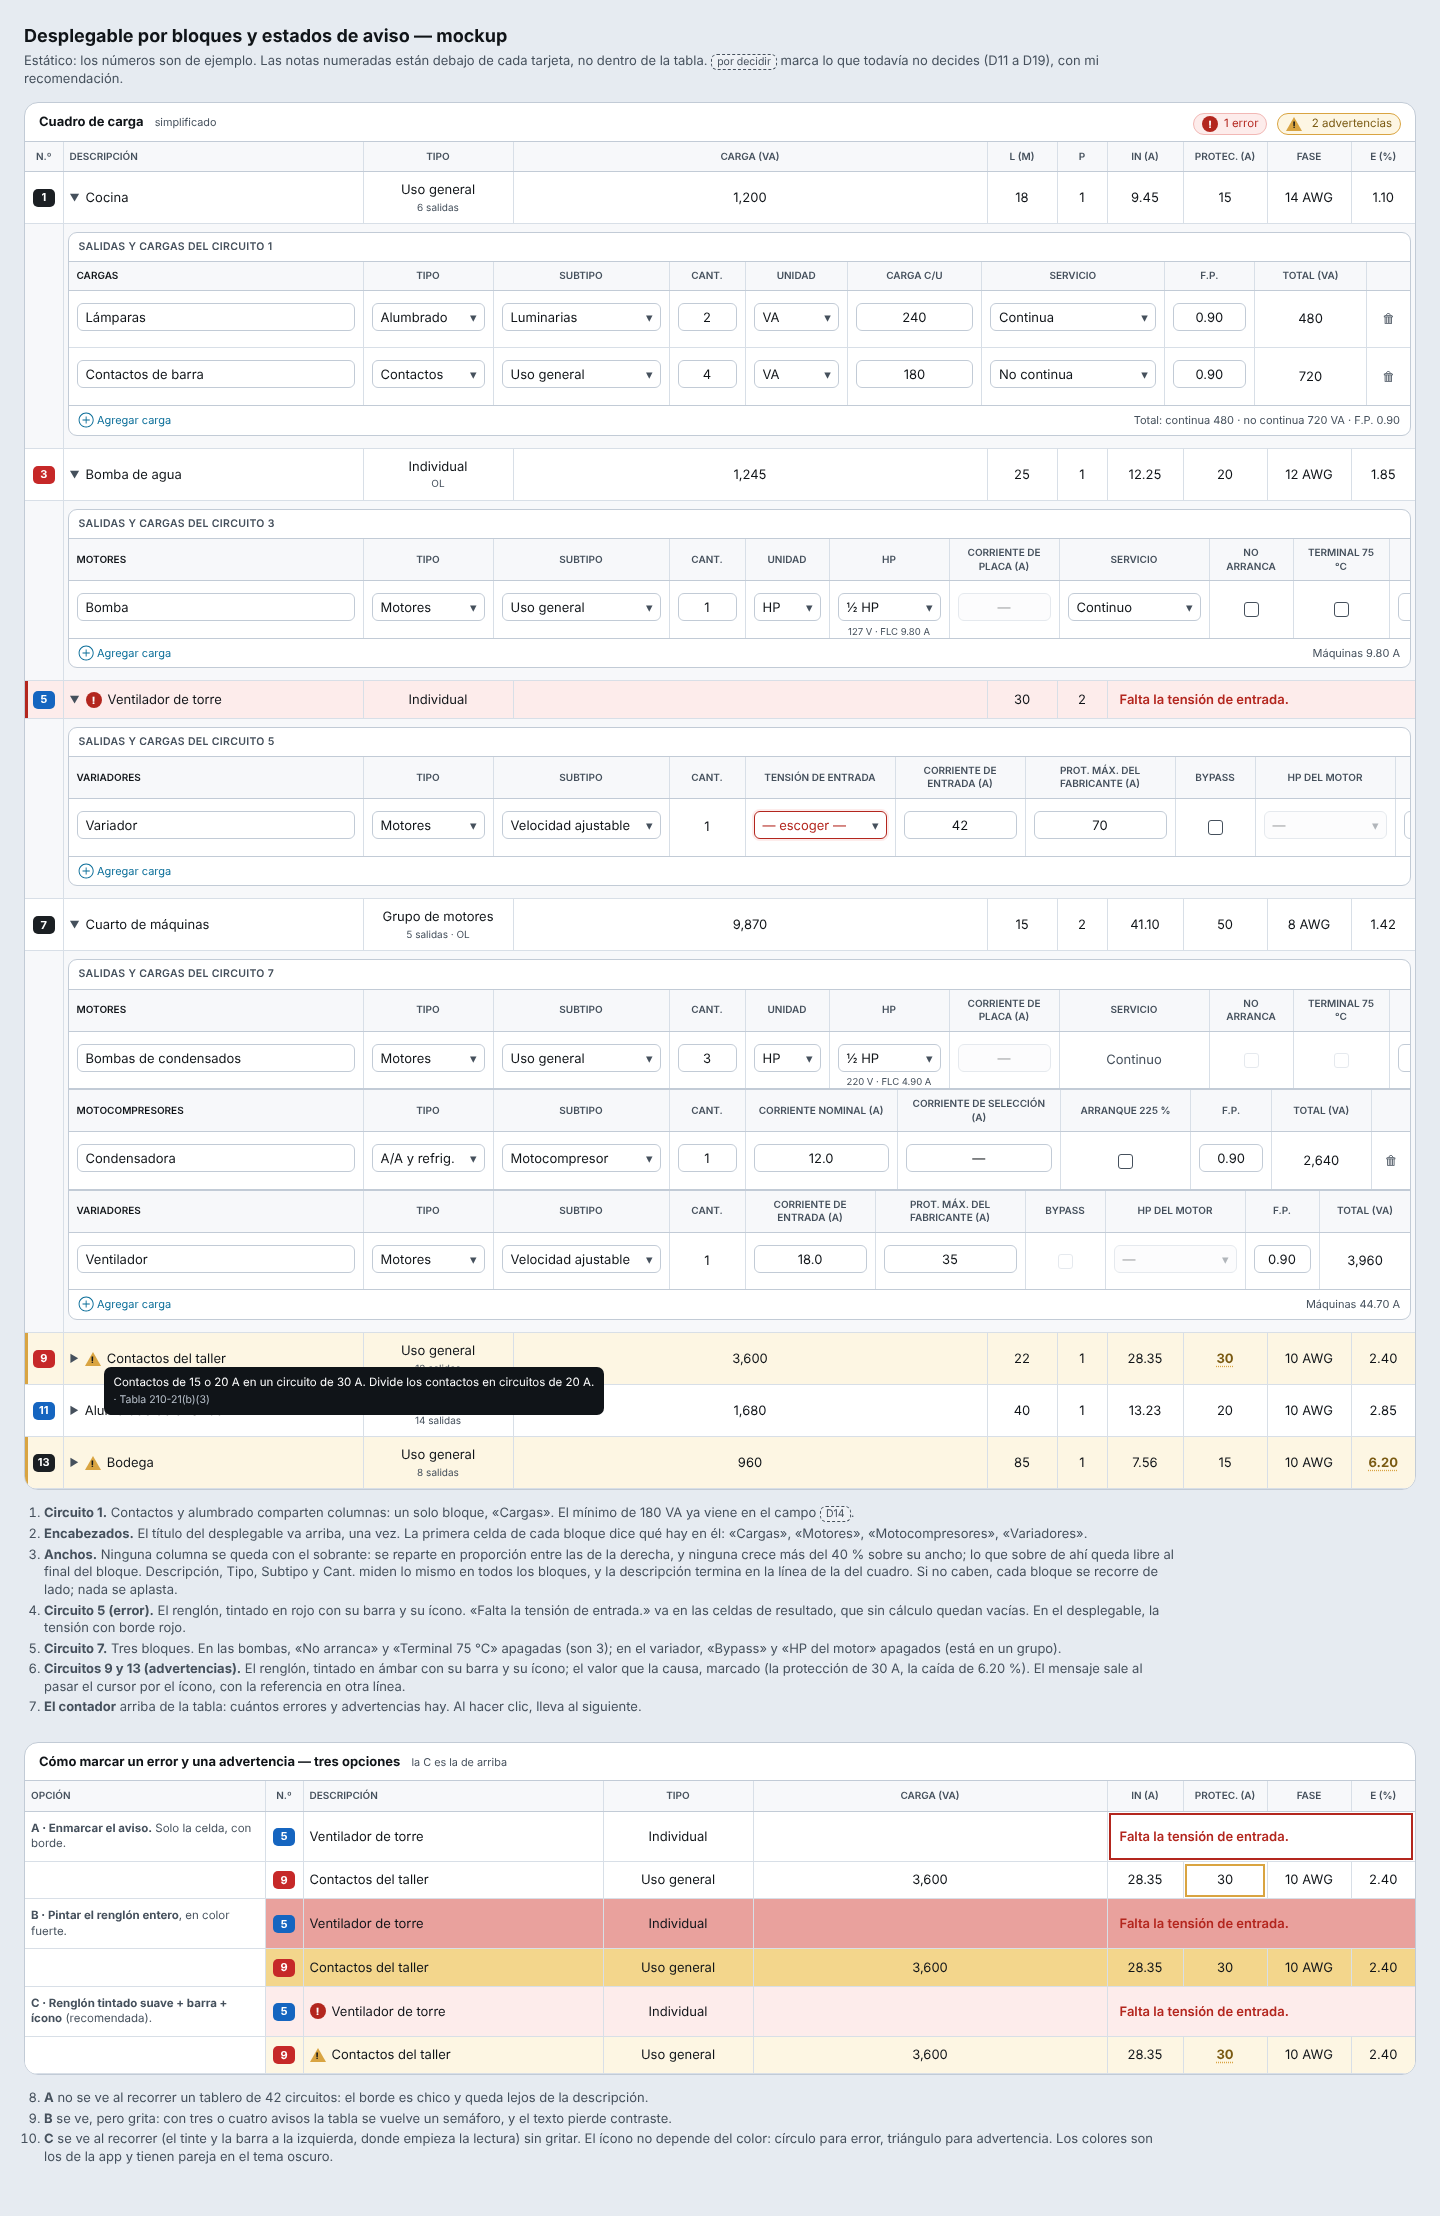
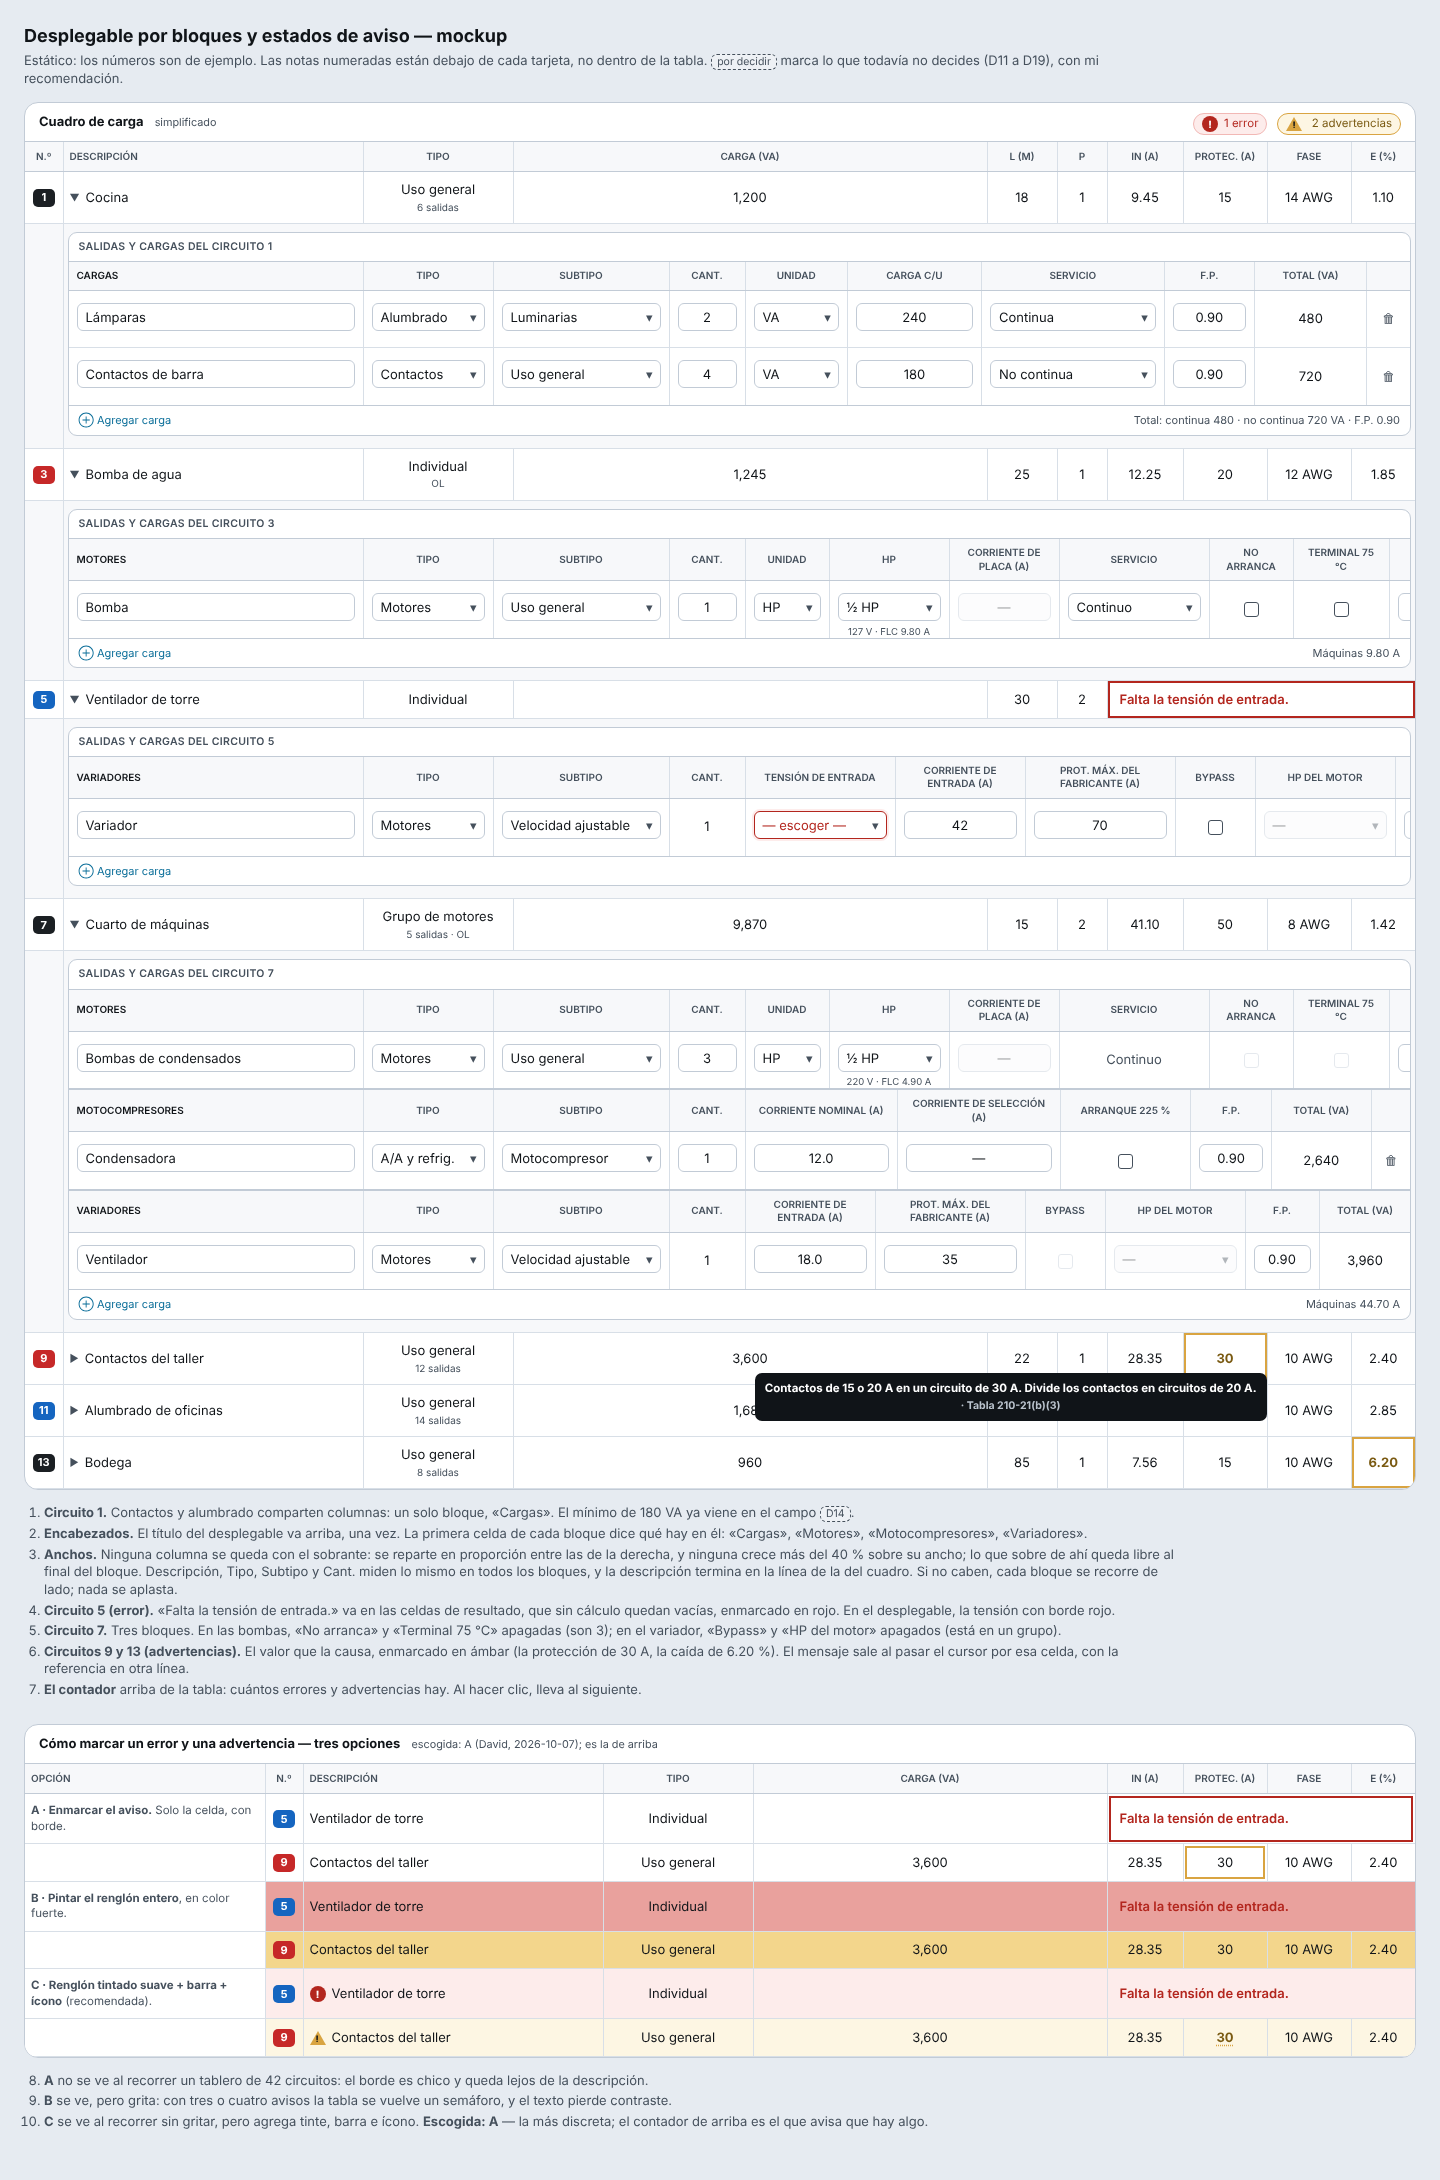
Docs: estados de aviso — David escoge la opción A, con contador y la tarjeta del pie
Solo la celda, con borde: el error en las celdas de resultado; la advertencia en la celda del valor
que la causa, con su mensaje al pasar el cursor. El mockup ya la enseña.

Claude-Session: https://claude.ai/code/session_01MnxpHgfUvDcquuwT9pQmd6

diff --git a/docs/mockups/desglose-por-bloques.html b/docs/mockups/desglose-por-bloques.html
@@ -62,6 +62,10 @@ td.msg-error { color:var(--alerta); font-weight:600; text-align:left !important;
 .chip.error { color:var(--alerta); background:var(--alerta-fondo); border-color:#f2b8b5; }
 .chip.aviso { color:var(--aviso-texto); background:var(--aviso-fondo); border-color:var(--aviso-borde); }
 
+/* LA OPCIÓN A, escogida por David (2026-10-07): solo la celda, con borde. */
+td.marco-error { box-shadow:inset 0 0 0 2px var(--alerta); }
+td.marco-aviso { box-shadow:inset 0 0 0 2px var(--aviso-borde); color:var(--aviso-texto); font-weight:700; }
+
 /* ── El desplegable ────────────────────────────────────────────────────────── */
 tr.fila-desglose > td { background:var(--fondo-suave); padding:8px 4px 12px; text-align:left; }
 .desglose { border:1px solid var(--linea); border-radius:var(--radio-sm); background:var(--papel); overflow:hidden; }
@@ -151,8 +155,8 @@ tr.fila-desglose > td { background:var(--fondo-suave); padding:8px 4px 12px; tex
   </td></tr>
 
   <!-- 5 · Ventilador: ERROR -->
-  <tr class="error"><td><span class="num-c fc">5</span></td><td class="izq"><span class="desc"><span class="flecha">▼</span><span class="ic error">!</span>Ventilador de torre</span></td><td><span class="clase">Individual</span></td><td></td><td>30</td><td>2</td>
-      <td colspan="4" class="msg-error">Falta la tensión de entrada.</td></tr>
+  <tr><td><span class="num-c fc">5</span></td><td class="izq"><span class="desc"><span class="flecha">▼</span>Ventilador de torre</span></td><td><span class="clase">Individual</span></td><td></td><td>30</td><td>2</td>
+      <td colspan="4" class="msg-error marco-error">Falta la tensión de entrada.</td></tr>
   <tr class="fila-desglose"><td></td><td colspan="9">
     <div class="desglose">
       <div class="titulo-desglose">Salidas y cargas del circuito 5</div>
@@ -204,13 +208,13 @@ tr.fila-desglose > td { background:var(--fondo-suave); padding:8px 4px 12px; tex
   </td></tr>
 
   <!-- 9 · ADVERTENCIA con su ayuda abierta -->
-  <tr class="aviso"><td><span class="num-c fb">9</span></td><td class="izq" style="position:relative"><span class="desc"><span class="flecha">▶</span><span class="ic aviso"></span>Contactos del taller</span>
-      <span class="globo" style="left:40px; top:34px">Contactos de 15 o 20 A en un circuito de 30 A. Divide los contactos en circuitos de 20 A.<span class="r">· Tabla 210-21(b)(3)</span></span></td>
-      <td><span class="clase">Uso general</span><span class="en-va">12 salidas</span></td><td>3,600</td><td>22</td><td>1</td><td>28.35</td><td><span class="marcado-aviso">30</span></td><td>10 AWG</td><td>2.40</td></tr>
+  <tr><td><span class="num-c fb">9</span></td><td class="izq"><span class="desc"><span class="flecha">▶</span>Contactos del taller</span></td>
+      <td><span class="clase">Uso general</span><span class="en-va">12 salidas</span></td><td>3,600</td><td>22</td><td>1</td><td>28.35</td><td class="marco-aviso" style="position:relative">30
+      <span class="globo" style="right:0; top:40px">Contactos de 15 o 20 A en un circuito de 30 A. Divide los contactos en circuitos de 20 A.<span class="r">· Tabla 210-21(b)(3)</span></span></td><td>10 AWG</td><td>2.40</td></tr>
   <tr><td><span class="num-c fc">11</span></td><td class="izq"><span class="desc"><span class="flecha">▶</span>Alumbrado de oficinas</span></td><td><span class="clase">Uso general</span><span class="en-va">14 salidas</span></td><td>1,680</td><td>40</td><td>1</td><td>13.23</td><td>20</td><td>10 AWG</td><td>2.85</td></tr>
 
   <!-- 13 · ADVERTENCIA cerrada: solo el renglón tintado, la barra y el ícono -->
-  <tr class="aviso"><td><span class="num-c fa">13</span></td><td class="izq"><span class="desc"><span class="flecha">▶</span><span class="ic aviso"></span>Bodega</span></td><td><span class="clase">Uso general</span><span class="en-va">8 salidas</span></td><td>960</td><td>85</td><td>1</td><td>7.56</td><td>15</td><td>10 AWG</td><td><span class="marcado-aviso">6.20</span></td></tr>
+  <tr><td><span class="num-c fa">13</span></td><td class="izq"><span class="desc"><span class="flecha">▶</span>Bodega</span></td><td><span class="clase">Uso general</span><span class="en-va">8 salidas</span></td><td>960</td><td>85</td><td>1</td><td>7.56</td><td>15</td><td>10 AWG</td><td class="marco-aviso">6.20</td></tr>
   </tbody>
 </table>
 </div>
@@ -218,15 +222,15 @@ tr.fila-desglose > td { background:var(--fondo-suave); padding:8px 4px 12px; tex
   <li><b>Circuito 1.</b> Contactos y alumbrado comparten columnas: un solo bloque, «Cargas». El mínimo de 180 VA ya viene en el campo <span class="pendiente">D14</span>.</li>
   <li><b>Encabezados.</b> El título del desplegable va arriba, una vez. La primera celda de cada bloque dice qué hay en él: «Cargas», «Motores», «Motocompresores», «Variadores».</li>
   <li><b>Anchos.</b> Ninguna columna se queda con el sobrante: se reparte en proporción entre las de la derecha, y ninguna crece más del 40 % sobre su ancho; lo que sobre de ahí queda libre al final del bloque. Descripción, Tipo, Subtipo y Cant. miden lo mismo en todos los bloques, y la descripción termina en la línea de la del cuadro. Si no caben, cada bloque se recorre de lado; nada se aplasta.</li>
-  <li><b>Circuito 5 (error).</b> El renglón, tintado en rojo con su barra y su ícono. «Falta la tensión de entrada.» va en las celdas de resultado, que sin cálculo quedan vacías. En el desplegable, la tensión con borde rojo.</li>
+  <li><b>Circuito 5 (error).</b> «Falta la tensión de entrada.» va en las celdas de resultado, que sin cálculo quedan vacías, enmarcado en rojo. En el desplegable, la tensión con borde rojo.</li>
   <li><b>Circuito 7.</b> Tres bloques. En las bombas, «No arranca» y «Terminal 75 °C» apagadas (son 3); en el variador, «Bypass» y «HP del motor» apagados (está en un grupo).</li>
-  <li><b>Circuitos 9 y 13 (advertencias).</b> El renglón, tintado en ámbar con su barra y su ícono; el valor que la causa, marcado (la protección de 30 A, la caída de 6.20 %). El mensaje sale al pasar el cursor por el ícono, con la referencia en otra línea.</li>
+  <li><b>Circuitos 9 y 13 (advertencias).</b> El valor que la causa, enmarcado en ámbar (la protección de 30 A, la caída de 6.20 %). El mensaje sale al pasar el cursor por esa celda, con la referencia en otra línea.</li>
   <li><b>El contador</b> arriba de la tabla: cuántos errores y advertencias hay. Al hacer clic, lleva al siguiente.</li>
 </ol>
 
 <!-- ═════════════════════════════════════════════════════════════════════════════════ -->
 <div class="tarjeta">
-<h2>Cómo marcar un error y una advertencia — tres opciones <small>la C es la de arriba</small></h2>
+<h2>Cómo marcar un error y una advertencia — tres opciones <small>escogida: A (David, 2026-10-07); es la de arriba</small></h2>
 <table class="cuadro variantes">
   <colgroup><col style="width:240px"><col style="width:38px"><col style="width:var(--desc)"><col style="width:150px"><col><col style="width:76px"><col style="width:84px"><col style="width:84px"><col style="width:64px"></colgroup>
   <thead><tr><th class="izq">Opción</th><th>N.º</th><th class="izq">Descripción</th><th>Tipo</th><th>Carga (VA)</th><th>In (A)</th><th>Protec. (A)</th><th>Fase</th><th>e (%)</th></tr></thead>
@@ -243,7 +247,7 @@ tr.fila-desglose > td { background:var(--fondo-suave); padding:8px 4px 12px; tex
 <ol class="notas" start="8">
   <li><b>A</b> no se ve al recorrer un tablero de 42 circuitos: el borde es chico y queda lejos de la descripción.</li>
   <li><b>B</b> se ve, pero grita: con tres o cuatro avisos la tabla se vuelve un semáforo, y el texto pierde contraste.</li>
-  <li><b>C</b> se ve al recorrer (el tinte y la barra a la izquierda, donde empieza la lectura) sin gritar. El ícono no depende del color: círculo para error, triángulo para advertencia. Los colores son los de la app y tienen pareja en el tema oscuro.</li>
+  <li><b>C</b> se ve al recorrer sin gritar, pero agrega tinte, barra e ícono. <b>Escogida: A</b> — la más discreta; el contador de arriba es el que avisa que hay algo.</li>
 </ol>
 
 <script>

diff --git a/docs/conocimiento/estados-de-aviso.md b/docs/conocimiento/estados-de-aviso.md
@@ -1,10 +1,10 @@
-# Componente: el estado del circuito (error y advertencia) — propuesta
+# Componente: el estado del circuito (error y advertencia)
 
-**PROPUESTA · Claude · 2026-10-07** — pedida por David: «necesitamos una forma clara de detectar warnings y
+**DECIDIDA · David · 2026-10-07: opción A** (abajo). Propuesta de Claude del mismo día — pedida por David: «necesitamos una forma clara de detectar warnings y
 errors en la tabla». Vista: [`../mockups/desglose-por-bloques.html`](../mockups/desglose-por-bloques.html)
 (capturas `-1900.png` y `-1440.png`), con las tres opciones lado a lado. Qué dice cada aviso:
 [`../decisiones/redaccion-de-avisos.md`](../decisiones/redaccion-de-avisos.md) y
-[`avisos-de-la-captura.md`](avisos-de-la-captura.md). Falta que David escoja.
+[`avisos-de-la-captura.md`](avisos-de-la-captura.md).
 
 ## El problema
 
@@ -44,8 +44,33 @@ es un ⚠ chico junto a la descripción, que no se ve al recorrer un tablero de 
 - **B · Pintar el renglón en color fuerte.** Se ve, pero con tres o cuatro avisos la tabla se vuelve un
   semáforo y el texto pierde contraste.
 
-## Por decidir (David)
+## Lo que decidió David (2026-10-07)
 
-1. ¿C, o A, o B?
-2. ¿El contador arriba del cuadro?
-3. ¿La tarjeta «Avisos» del pie se queda (todos juntos) o sale ahora que cada circuito lo enseña?
+1. **Opción A · enmarcar el aviso: solo la celda, con borde.** Sin tinte del renglón, sin barra, sin ícono.
+   - **Error:** el mensaje en las celdas de resultado (In, Protec., Fase, e %), enmarcado en `--alerta`. En el
+     desplegable, el campo que falta con borde `--alerta`.
+   - **Advertencia:** la celda del valor que la causa (la protección, la caída…), enmarcada en `--aviso-borde`
+     y su valor en `--aviso-texto`. El mensaje, al pasar el cursor por esa celda, con la referencia en otra
+     línea. (Antes iba en el ⚠ junto a la descripción: con A, el ⚠ sale.)
+2. **El contador arriba del cuadro: sí.** «1 error · 2 advertencias»; un clic lleva al siguiente.
+3. **La tarjeta «Avisos» del pie: se queda**, con todos juntos.
+
+La recomendación de Claude era C; queda en la vista como referencia.
+
+### Qué celda enmarca cada advertencia (propuesta de Claude)
+
+Con A, cada advertencia necesita la celda del valor que la causa. Las de
+[`avisos-de-la-captura.md`](avisos-de-la-captura.md):
+
+| Advertencia | Celda |
+|---|---|
+| B7 Contactos de 15 o 20 A en un circuito de más de 20 A | Protec. (A) |
+| B8 Equipo fijo de más del 50 % del circuito | Protec. (A) |
+| B9 a B11 Alumbrado en un circuito de 30 A, 40 o 50 A, o más | Protec. (A) |
+| B12 Contactos de vivienda a más de 120 V | P (los polos dan la tensión) |
+| B13 Caída combinada de más de 5 % | e (%) |
+| B14, B15 Acondicionador de habitación de más del 80 % o 50 % | Protec. (A) |
+| B16 Con bypass, ninguna protección cabe | Protec. (A) |
+| B18 Ningún tubo admite los conductores | Canal. |
+
+Dos advertencias en la misma celda: un solo marco, y las dos en su cuadro de ayuda, una por línea.

diff --git a/docs/decisiones/redaccion-de-avisos.md b/docs/decisiones/redaccion-de-avisos.md
@@ -69,7 +69,8 @@ Convierten el aviso en un comentario de desarrollo.
    datos: **[Conflicto]. [Acción].** «El contacto del refrigerador va solo. Pasa las demás cargas a otro
    circuito.»
 2. **El artículo de una advertencia (el ⚠ del renglón)** — A: en el mismo cuadro de ayuda, en una segunda
-   línea apartada: «· Tabla 210-21(b)(3)».
+   línea apartada: «· Tabla 210-21(b)(3)». Con la opción A de [`../conocimiento/estados-de-aviso.md`](../conocimiento/estados-de-aviso.md) el ⚠ sale:
+   ese cuadro de ayuda es el de la celda enmarcada.
 3. **La acción tiene que poderse hacer en la pantalla.** Si no hay una acción concreta, «Revísalo.»
 4. **Los mensajes del motor de cálculo** — A: la pantalla traduce los casos conocidos al formato de esta
    guía, sin tocar el motor (se copia, no se reescribe); los desconocidos dicen «No se puede calcular el
